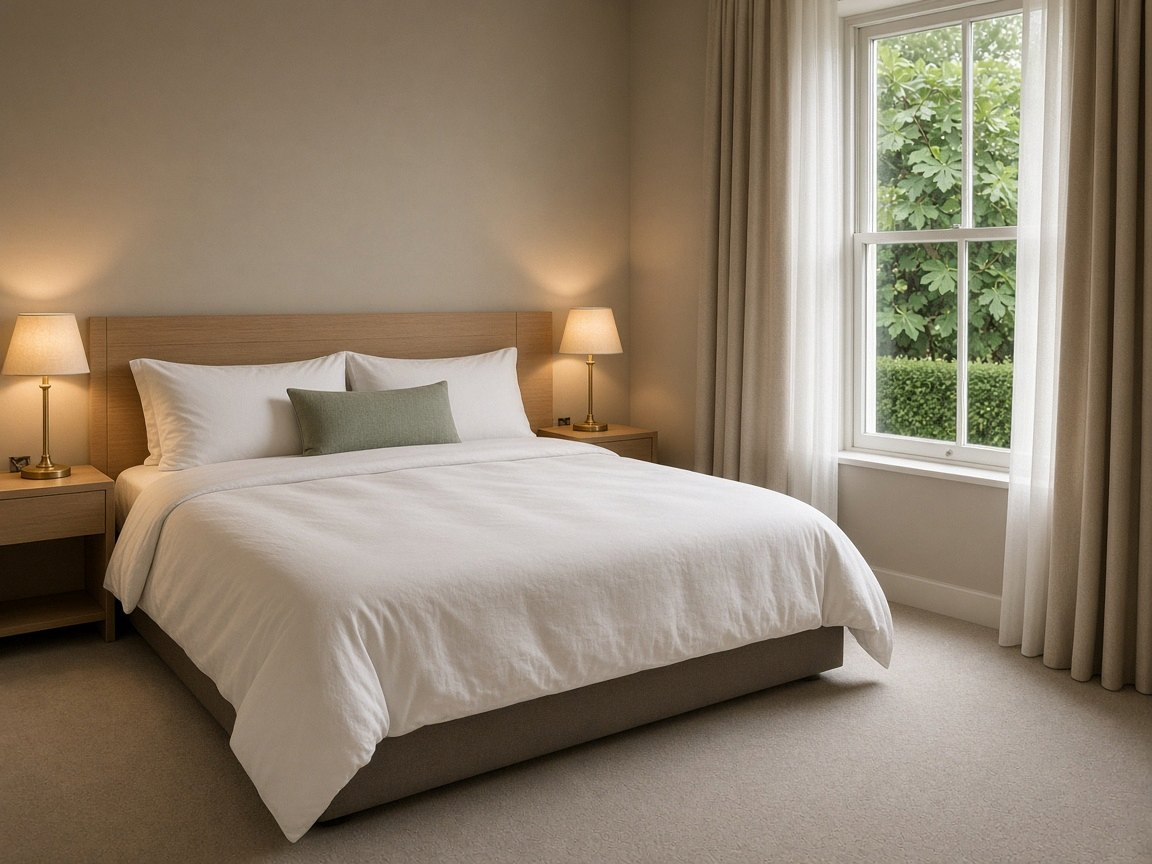
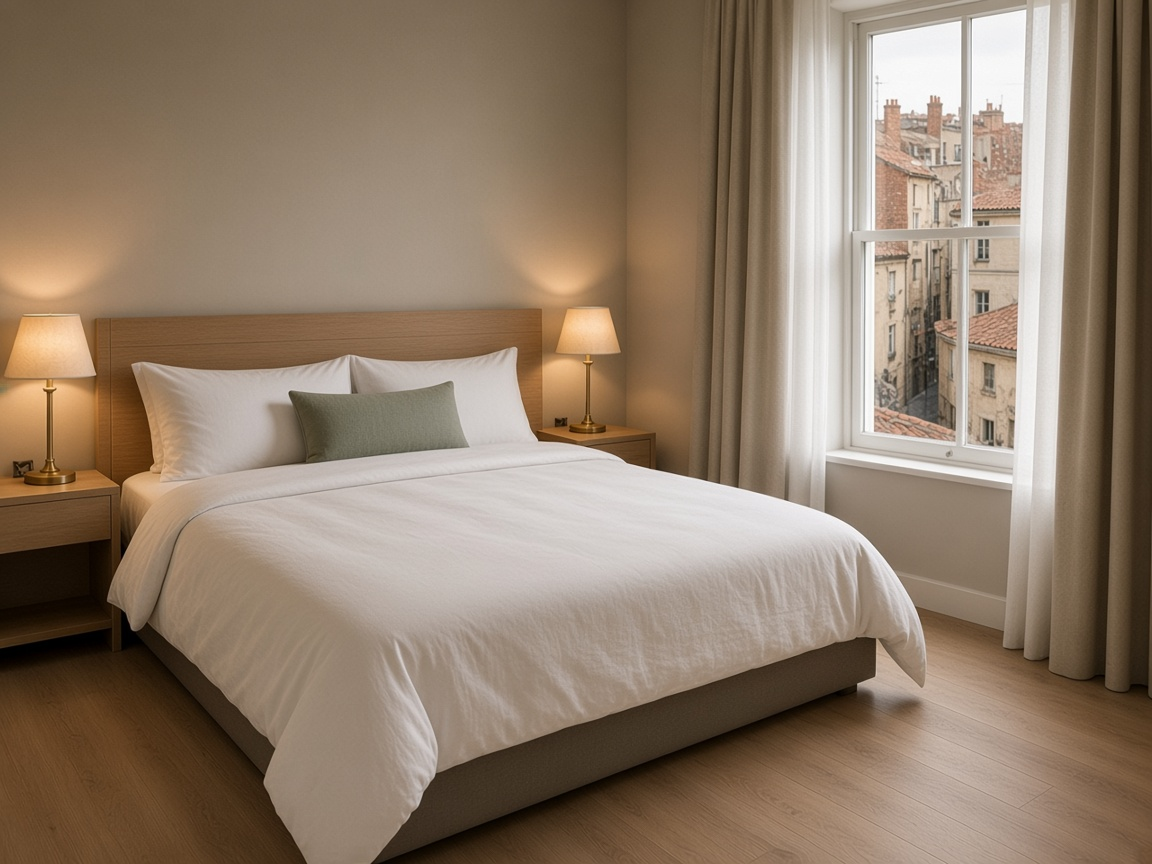
Name every room and keep the strait on three rooms.
Standard, Queen, King, Queen Double, and King Double face the street or the rooftops. Deluxe, Suite, and Bosfor Suite keep the water.

diff --git a/src/lib/rooms.ts b/src/lib/rooms.ts
@@ -32,38 +32,38 @@ export function roomCover(room: Room) {
 export const rooms: Room[] = [
   {
     slug: "standard",
-    name: "Standard",
+    name: "Standard Room",
     nightlyRate: 220,
     size: "24 m²",
     bed: "Double bed",
-    view: "Garden",
+    view: "City rooftops",
     summary:
-      "A quiet double on the garden. Cream linen, a brass lamp, and the hedge path when the window is open.",
+      "A quiet double on the city side. Warm white linen, a brass lamp, and tiled roofs across the way.",
     description:
-      "The Standard is the smallest room in the house and the one that looks into the garden rather than the strait. A double bed in cream linen, a walnut desk, and a shower that gets properly hot. It suits two people who will spend the day along Bebek's shore and want a dark, calm room to come back to.",
+      "Standard Room is the smallest room in the house. One double bed in warm white linen, a light-oak desk, and a sash window onto neighboring rooftops and the upper floors of the next street. Buildings fill the view.",
     amenities: [
       "Double bed",
-      "Garden view",
+      "City rooftops",
       "Rain shower",
       "Writing desk",
       "Linen robes",
       "Wireless internet",
     ],
     images: photos("standard", [
-      "Compact double room with a low oak headboard, warm white bedding, a sage lumbar pillow, brass lamps, and a sash window onto a garden hedge.",
-      "The same garden room from the light-oak writing desk, with a beige chair, the double bed to the side, and the hedge outside the sash window.",
+      "Compact double room with a low oak headboard, warm white bedding, a brass lamp, and a sash window onto tiled rooftops and apartment buildings.",
+      "The same city room from a light-oak writing desk and beige chair, the double bed to the side, neighboring buildings outside the window.",
     ]),
   },
   {
     slug: "queen-double",
-    name: "Queen Double",
+    name: "Queen Double Room",
     nightlyRate: 250,
     size: "32 m²",
     bed: "Two queen beds",
     view: "Side street",
-    summary: "Two queen beds on the city side, priced under the Queen.",
+    summary: "Two queen beds on the city side, priced under the Queen Room.",
     description:
-      "Queen Double is the cheaper city room. Two queen beds, a nightstand between them, warm white linen, and a window onto a side street of apartment buildings. No open water, no boats. The single Queen, one floor up, is the room that looks along the bay.",
+      "Queen Double Room is the two-bed city room. Two queen beds, a nightstand between them, warm white linen, and a window onto a side street of apartment buildings. It costs less than the Queen Room, which is a single bed on the same side of the house.",
     amenities: [
       "Two queen beds",
       "Side-street view",
@@ -73,43 +73,42 @@ export const rooms: Room[] = [
     ],
     images: photos("queen-double", [
       "Two queen beds with walnut headboards and a brass lamp between them, greige drapes open to a narrow street of apartment buildings.",
-      "The same Queen Double from the doorway, both queen beds in warm white linen, city buildings filling the window.",
+      "The same Queen Double Room from the doorway, both queen beds in warm white linen, city buildings filling the window.",
     ]),
   },
   {
     slug: "queen",
-    name: "Queen",
+    name: "Queen Room",
     nightlyRate: 295,
     size: "30 m²",
     bed: "Queen bed",
-    view: "Bebek bay",
-    summary:
-      "A queen bed, a writing desk, and casement windows toward the wooden houses on Bebek bay.",
+    view: "Across the street",
+    summary: "One queen bed and a writing desk. Apartment buildings fill the window.",
     description:
-      "The Queen room sits one floor above the garden. The bed is dressed in cream linen, the desk faces the water, and the windows look along the bay to the yalıs on the far curve. Ceramic lamps, blackout curtains for late mornings, and enough quiet to hear the water against the quay.",
+      "Queen Room is a single bed, wider than the Standard Room double, on the city side of the house. Warm white linen, a walnut headboard, and casement windows that look straight at the plaster facades across a narrow street.",
     amenities: [
       "Queen bed",
       "Writing desk",
-      "Bebek bay view",
+      "City view",
       "Rain shower",
       "Linen robes",
       "Wireless internet",
     ],
     images: photos("queen", [
-      "Queen bedroom with a walnut panel headboard, warm white bedding, a sage pillow, a writing desk, and casement windows toward the wooden houses on Bebek bay.",
-      "The same Queen room from the writing desk, looking across the queen bed and walnut headboard toward the Bebek bay windows.",
+      "One queen bed with a walnut headboard, warm white bedding, brass lamps, and windows filled by apartment facades across the street.",
+      "The same Queen Room from the writing desk, looking across the single queen bed toward neighboring city buildings.",
     ]),
   },
   {
     slug: "king-double",
-    name: "King Double",
+    name: "King Double Room",
     nightlyRate: 340,
     size: "42 m²",
     bed: "Two king beds",
     view: "Rooftops",
-    summary: "Two king beds facing the rooftops, priced under the King.",
+    summary: "Two king beds facing the rooftops, priced under the King Room.",
     description:
-      "King Double puts two wide king beds in one room, with walnut headboards and a lamp between them. The window looks over tiled rooftops and the buildings of the next street. It is the city room for four, and it costs less than the King, whose balcony is on the strait.",
+      "King Double Room puts two wide king beds in one room, with walnut headboards and a lamp between them. The window looks over tiled rooftops and the buildings of the next street. It is the city room for four, and it costs less than the King Room.",
     amenities: [
       "Two king beds",
       "Rooftop view",
@@ -119,36 +118,35 @@ export const rooms: Room[] = [
     ],
     images: photos("king-double", [
       "Two wide king beds with walnut headboards and warm white bedding, a window onto tiled rooftops and the next block of buildings.",
-      "The same King Double from the window side, both king beds visible, rooftops and apartment buildings outside.",
+      "The same King Double Room from the window side, both king beds visible, rooftops and apartment buildings outside.",
     ]),
   },
   {
     slug: "king",
-    name: "King",
+    name: "King Room",
     nightlyRate: 385,
     size: "36 m²",
     bed: "King bed",
-    view: "Bosphorus balcony",
-    summary: "A king bed and French doors onto a balcony over the strait.",
+    view: "City buildings",
+    summary: "One wide king bed on the city side, with buildings and rooftops outside.",
     description:
-      "The King room opens through glass doors onto a balcony over the strait. The bed is a wide king in warm white linen, with a taupe headboard and a charcoal armchair by the glass. Morning light arrives across the water before the ferries do.",
+      "King Room is the largest single bed on the street side: one wide king in warm white linen, a taupe headboard, and a charcoal armchair by the window. Outside are the buildings of the next block. It costs more than King Double Room and less than Deluxe Room on the water.",
     amenities: [
       "King bed",
-      "Private balcony",
-      "Bosphorus view",
+      "City view",
       "Rain shower",
       "Charcoal armchair",
       "Linen robes",
       "Wireless internet",
     ],
     images: photos("king", [
-      "Wide king bedroom with a taupe upholstered headboard, warm white bedding, brass lamps, a charcoal armchair, and glass doors onto a Bosphorus balcony with a ferry.",
-      "The same King room from the balcony, looking in past a slim metal rail to the wide king bed and charcoal armchair.",
+      "One wide king bed with a taupe headboard, warm white bedding, brass lamps, a charcoal armchair, and a window onto city buildings and rooftops.",
+      "The same King Room from beside the window, looking back at the single wide king bed and charcoal armchair, buildings outside.",
     ]),
   },
   {
     slug: "deluxe",
-    name: "Deluxe",
+    name: "Deluxe Room",
     nightlyRate: 510,
     size: "46 m²",
     bed: "King bed",
@@ -156,7 +154,7 @@ export const rooms: Room[] = [
     summary:
       "The king room with space to sit: two linen armchairs, a wider balcony, and a long afternoon on the strait.",
     description:
-      "Deluxe keeps the king bed and adds a lounge corner. Two cream armchairs, a small marble table, and a balcony wide enough for both of you. The glass folds all the way back, and the last light sits on the water.",
+      "Deluxe Room keeps the king bed and adds a lounge corner. Two cream armchairs, a small marble table, and a balcony wide enough for both of you. The glass folds all the way back, and the last light sits on the water.",
     amenities: [
       "King bed",
       "Lounge seating",
@@ -169,12 +167,12 @@ export const rooms: Room[] = [
     ],
     images: photos("deluxe", [
       "Deluxe king bedroom with a walnut headboard, a folded sage throw, two beige armchairs, and a wide balcony over the Bosphorus at sunset.",
-      "The same Deluxe room from the lounge, two beige armchairs facing the sunset balcony, the king bed at the left.",
+      "The same Deluxe Room from the lounge, two beige armchairs facing the sunset balcony, the king bed at the left.",
     ]),
   },
   {
     slug: "suite",
-    name: "Suite",
+    name: "Suite Room",
     nightlyRate: 780,
     size: "64 m²",
     bed: "King bed",
@@ -182,7 +180,7 @@ export const rooms: Room[] = [
     summary:
       "A sitting room and a separate bedroom, with a door you can close between them.",
     description:
-      "The Suite is two rooms. The sitting room has a low sofa in cream linen, a round walnut table, and tea when you arrive. The bedroom is through a doorway you can close. Turndown is in the evening, with the strait still moving outside.",
+      "Suite Room is two rooms on the water. The sitting room has a low sofa in cream linen, a round walnut table, and tea when you arrive. The bedroom is through a doorway you can close. Turndown is in the evening, with the strait still moving outside.",
     amenities: [
       "Separate sitting room",
       "King bedroom",
@@ -201,7 +199,7 @@ export const rooms: Room[] = [
   },
   {
     slug: "presidential",
-    name: "Bosfor Suite",
+    name: "Bosfor Suite Room",
     nightlyRate: 1250,
     size: "102 m²",
     bed: "King bed",
@@ -209,7 +207,7 @@ export const rooms: Room[] = [
     summary:
       "The water floor. A stone fireplace, a long sofa, and a private terrace facing the Bosphorus.",
     description:
-      "The Bosfor Suite is the water floor of the house. A pale stone fireplace, a dining table for four, and doors onto a terrace that is not shared with other rooms. Breakfast can be brought out. At dusk the strait goes the color of the walnut, and the hills on the Asian shore light up one by one.",
+      "Bosfor Suite Room is the water floor of the house. A pale stone fireplace, a dining table for four, and doors onto a terrace that is not shared with other rooms. Breakfast can be brought out. At dusk the strait goes the color of the walnut, and the hills on the Asian shore light up one by one.",
     amenities: [
       "Private terrace",
       "Stone fireplace",

diff --git a/src/app/page.tsx b/src/app/page.tsx
@@ -24,7 +24,7 @@ const notes = [
   },
   {
     title: "The house",
-    body: "Eight room types. Queen Double and King Double face the street. Evenings end on the quay, when the strait goes dark.",
+    body: "Eight room types. Five face the street and the rooftops. Deluxe Room, Suite Room, and Bosfor Suite Room face the water.",
   },
 ]
 
@@ -71,7 +71,7 @@ export default function HomePage() {
           <p className="text-xs font-medium uppercase tracking-[0.18em] text-muted-foreground">The house</p>
           <h2 className="mt-3 text-4xl md:text-5xl">A wooden house on the European shore</h2>
           <p className="mt-5 text-base leading-7 text-foreground/80">
-            Bosfor Hotels is a fictional house hotel on the Bosphorus in Istanbul — Bosfor for the strait, the Boğaz. The rooms look either into the garden or out across the water to the Asian hills. Queen Double and King Double face the street instead: buildings and rooftops, not the bay. The quay is private; Bebek village is a short walk along Cevdet Paşa.
+            Bosfor Hotels is a fictional house hotel on the Bosphorus in Istanbul — Bosfor for the strait, the Boğaz. Deluxe Room, Suite Room, and Bosfor Suite Room look across the water to the Asian hills. The other five rooms face buildings, a side street, or rooftops. The quay is private; Bebek village is a short walk along Cevdet Paşa.
           </p>
           <p className="mt-4 text-base leading-7 text-foreground/80">
             There is tea on the terrace in the morning, brass lamps after dark, and eight room types. That is the whole of it.

diff --git a/src/app/rooms/page.tsx b/src/app/rooms/page.tsx
@@ -6,7 +6,7 @@ import { rooms } from "@/lib/rooms"
 export const metadata: Metadata = {
   title: "Rooms",
   description:
-    "Standard, Queen Double, Queen, King Double, King, Deluxe, Suite, and Bosfor Suite at Bosfor Hotels on the Bebek waterfront in Istanbul.",
+    "Standard Room, Queen Double Room, Queen Room, King Double Room, King Room, Deluxe Room, Suite Room, and Bosfor Suite Room at Bosfor Hotels in Bebek.",
 }
 
 export default function RoomsPage() {
@@ -15,7 +15,7 @@ export default function RoomsPage() {
       <PageHeader
         eyebrow="Rooms"
         title="Eight rooms"
-        lede="From a garden double to the water-floor terrace. Queen Double and King Double face the street and cost less. Each rate is per room, per night, with taxes included."
+        lede="Standard Room, Queen Room, King Room, Queen Double Room, and King Double Room face the street and the rooftops. Deluxe Room, Suite Room, and Bosfor Suite Room face the water. Each rate is per room, per night, with taxes included."
       />
       <div className="mt-12 grid grid-cols-1 gap-8 sm:grid-cols-2 sm:gap-10 lg:grid-cols-3">
         {rooms.map((room) => (

diff --git a/src/lib/assistant.ts b/src/lib/assistant.ts
@@ -21,7 +21,7 @@ function roomsText() {
   const lines = rooms.map(
     (room) => `${room.name} (${room.view}), ${formatMoney(room.nightlyRate)} a night.`,
   )
-  return `Bosfor Hotels has eight room types. Each rate is per room, per night, and taxes are included. Queen Double and King Double face the street and cost less than the rooms on the water. ${lines.join(" ")}`
+  return `Bosfor Hotels has eight room types. Each rate is per room, per night, and taxes are included. Standard Room, Queen Room, King Room, Queen Double Room, and King Double Room face the city. Deluxe Room, Suite Room, and Bosfor Suite Room face the strait. ${lines.join(" ")}`
 }
 
 function datesText() {

diff --git a/README.md b/README.md
@@ -27,15 +27,15 @@ Open [http://127.0.0.1:43123/HotelManagment-WebAPI/](http://127.0.0.1:43123/Hote
 
 ## Rooms
 
-Rates are per room, per night, in euros, taxes included. Queen Double and King Double face the street and cost less than the rooms on the water. The other six rooms are unchanged.
+Rates are per room, per night, in euros, taxes included. Only Deluxe Room, Suite Room, and Bosfor Suite Room face the water.
 
 | Room | View | Nightly |
 | --- | --- | --- |
-| Standard | Garden | €220 |
-| Queen Double | Side street | €250 |
-| Queen | Bebek bay | €295 |
-| King Double | Rooftops | €340 |
-| King | Bosphorus balcony | €385 |
-| Deluxe | Wide Bosphorus balcony | €510 |
-| Suite | Strait, two rooms | €780 |
-| Bosfor Suite | Private water terrace | €1,250 |
+| Standard Room | City rooftops | €220 |
+| Queen Double Room | Side street | €250 |
+| Queen Room | Across the street | €295 |
+| King Double Room | Rooftops | €340 |
+| King Room | City buildings | €385 |
+| Deluxe Room | Wide Bosphorus balcony | €510 |
+| Suite Room | Strait, two rooms | €780 |
+| Bosfor Suite Room | Private water terrace | €1,250 |
